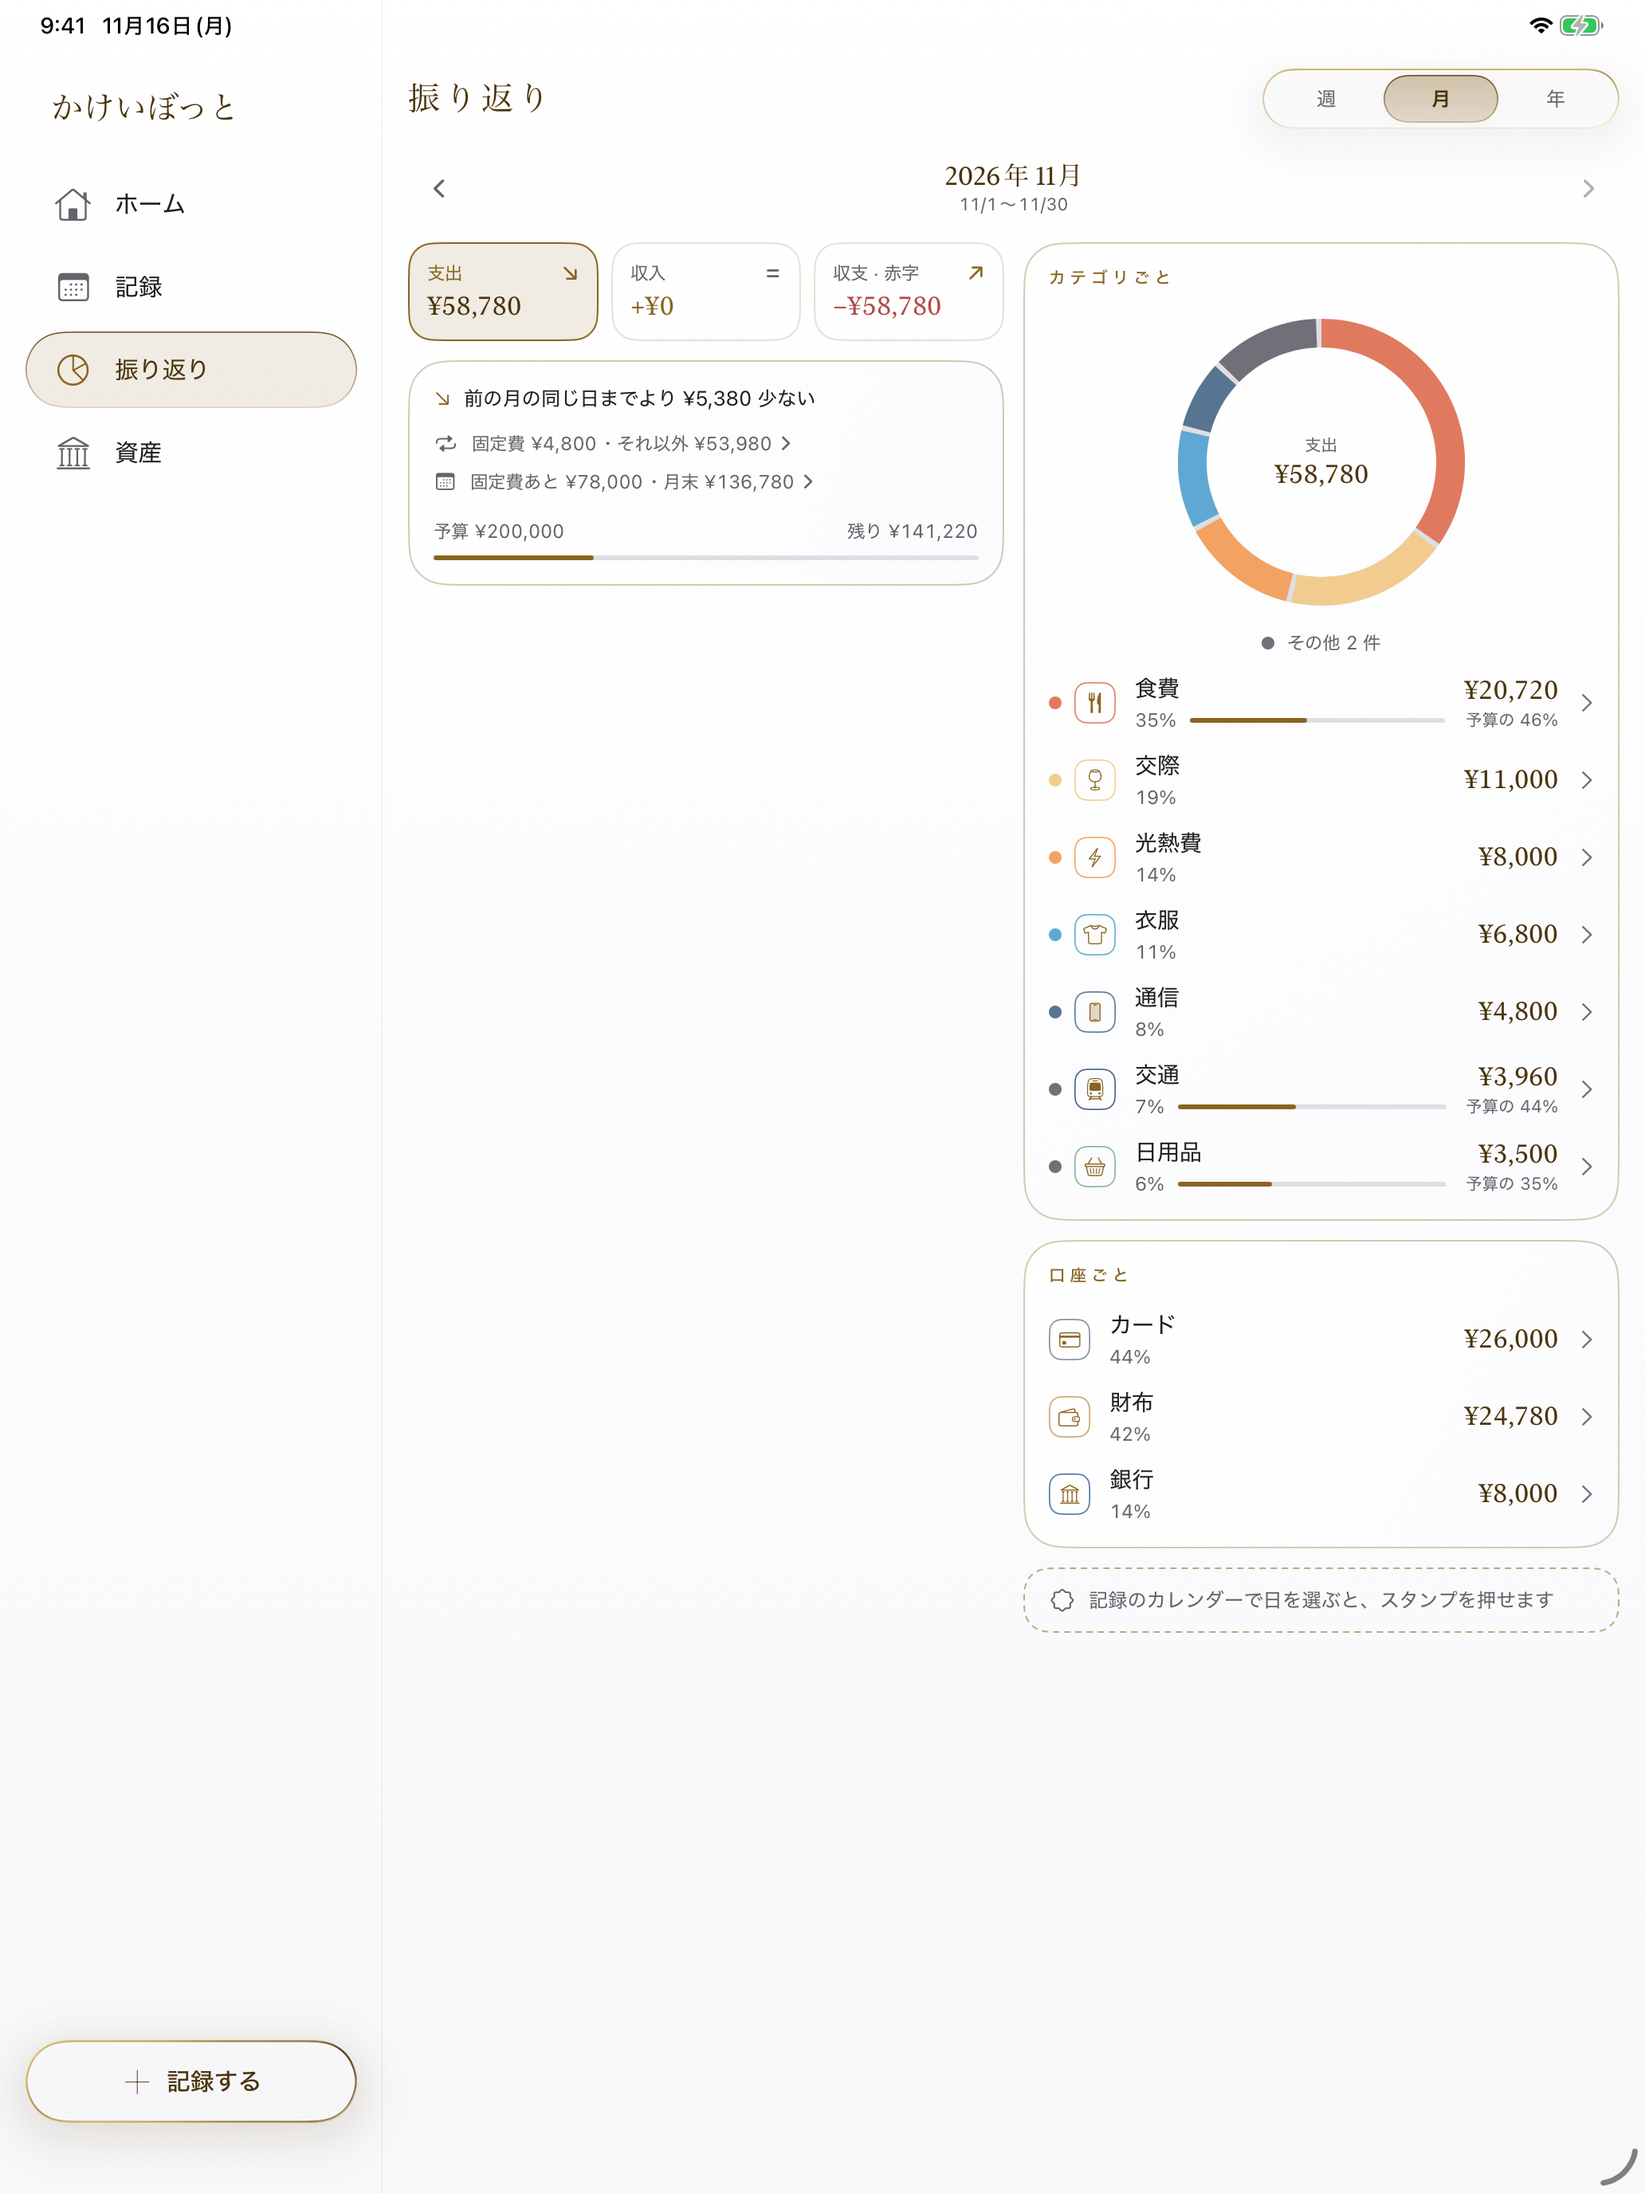
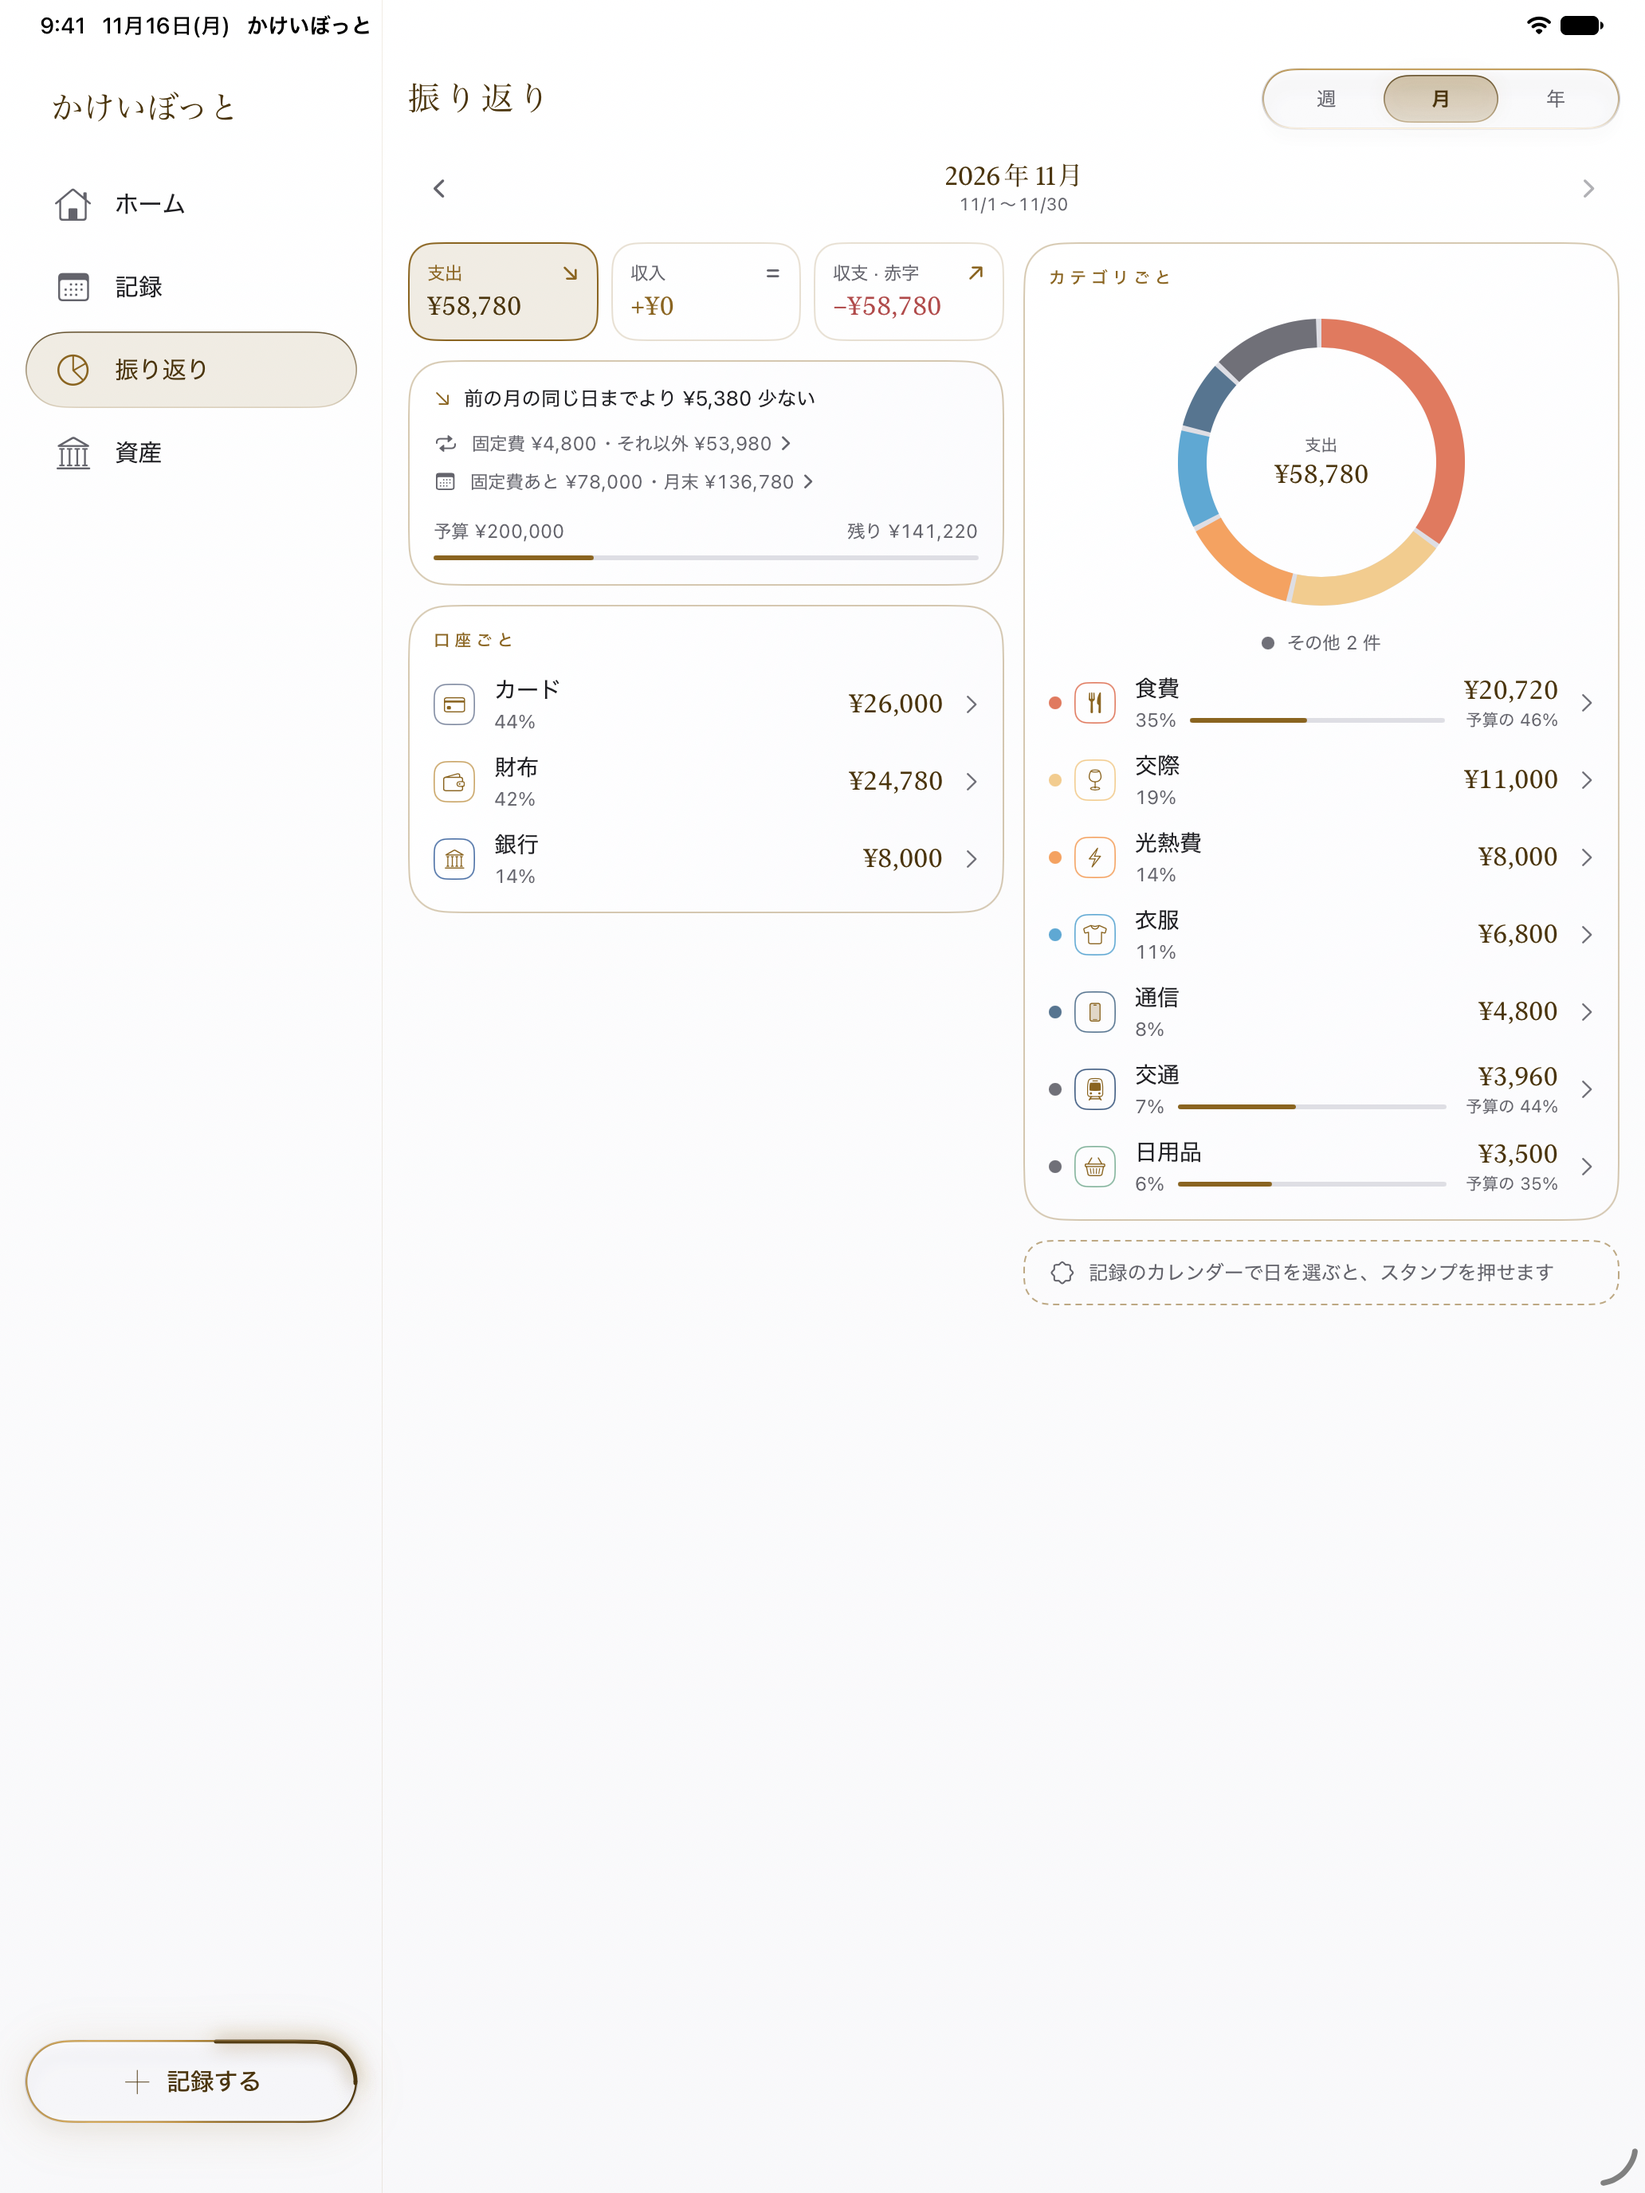
build: retake the ipad store screenshots with fuller screens
- iPad のストアの画像は、端末を大きくして下を画像の外に出す
- 撮り直した 5 枚は、ホームに引き落としを出し、財布の残高を合わせ、記録は 11/12、入力は ¥1,280 を打った状態にする
- 振り返りの 2 列では、口座ごとを左の列に置く

diff --git a/.claude/snapshots/store/SnapshotTests.swift b/.claude/snapshots/store/SnapshotTests.swift
@@ -441,7 +441,12 @@ private extension StorePage {
     var artwork: some View {
         switch art {
         case let .phone(shot):
-            phone(shot, width: 360)
+            if canvas == .pad {
+                phone(shot, width: 410)
+                    .fixedSize(horizontal: false, vertical: true)
+            } else {
+                phone(shot, width: 360)
+            }
 
         case let .fan(left, center, right, labels):
             fan(

diff --git a/ios/Packages/KakeibotApp/Sources/Features/Screens/Tabs/Review/ReviewView+Content.swift b/ios/Packages/KakeibotApp/Sources/Features/Screens/Tabs/Review/ReviewView+Content.swift
@@ -64,7 +64,6 @@ extension ReviewView {
                             openShare = share
                         }
                     )
-                    .layoutColumn(.trailing)
                 }
             }
 

diff --git a/docs/roadmap.md b/docs/roadmap.md
@@ -63,7 +63,7 @@ flowchart LR
 
 | 画面 | 右の列 |
 | --- | --- |
-| 振り返り | カテゴリごと・口座ごと・スタンプ |
+| 振り返り | カテゴリごと・スタンプ |
 | 資産 | 資産と負債の口座 |
 | 記録のカレンダー | 選んだ日のカード。日のマスには、その日の支出の大きさに合わせた濃さの色を敷く |
 
